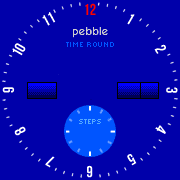
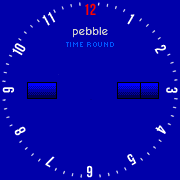
Remove step counter

Changed region(s): [[0.3333, 0.5833, 0.6667, 0.8889]]

diff --git a/src/pkjs/config.js b/src/pkjs/config.js
@@ -15,17 +15,7 @@ module.exports = [
         "messageKey": "SecondTick",
         "label": "Enable Seconds",
         "defaultValue": true
-      },
-      {
-        "type": "slider",
-        "messageKey": "StepType",
-        "defaultValue": 10000,
-        "label": "Slider",
-        "description": "Step Goal (0 for daily average)",
-        "min": 0,
-        "max": 20000,
-        "step": 1000
-      },
+      }
     ]
   },
   {

diff --git a/src/c/main.c b/src/c/main.c
@@ -25,12 +25,9 @@ static GPoint center;
 
 GBitmap *background_bitmap,
         *center_dot_bitmap,
-        *steps_center_dot_bitmap,
         *percentage_bitmap,
         *months_bitmap,
         *digits_bitmap;
-
-static int s_step_count = 0, s_step_goal = 1, s_step_average = 0;
 
 char batt_text[10] = "";
 char date_text[10] = "";
@@ -108,7 +105,6 @@ static void load_settings() {
   settings.BackgroundColor = (GColor){.argb = 0b11000110};//GColorDukeBlue;
   settings.ForegroundColor = GColorWhite;
   settings.SecondTick = false;
-  settings.StepType = 0;
 
   // Read settings from persistent storage, if they exist
   persist_read_data(SETTINGS_KEY, &settings, sizeof(settings));
@@ -121,7 +117,7 @@ static void save_settings() {
 
 // Handle the response from AppMessage
 static void inbox_received_handler(DictionaryIterator *iter, void *context) {
-  Tuple *option_seconds, *option_steptype;
+  Tuple *option_seconds;
   
 // Background Color
 //   if (bg_color_t = dict_find(iter, MESSAGE_KEY_BackgroundColor))
@@ -143,54 +139,12 @@ static void inbox_received_handler(DictionaryIterator *iter, void *context) {
       tick_timer_service_subscribe(MINUTE_UNIT, tick_handler);
   }
 
-  // Step Type
-  if ((option_steptype = dict_find(iter, MESSAGE_KEY_StepType)))
-    settings.StepType = option_steptype->value->int32;
-
   // Save the new settings to persistent storage
   save_settings();
   
   // Update the display with the new settings
   layer_mark_dirty(root_layer);
 }
-
-
-
-// ----------------------------------------------------------------------------------------------------------------------------
-//  Step Tracking
-// ------------------------------------------------------
-// Is step data available?
-
-bool step_data_is_available() {
-  return HealthServiceAccessibilityMaskAvailable &
-    health_service_metric_accessible(HealthMetricStepCount,
-      time_start_of_today(), time(NULL));
-}
-
-// Daily step goal
-static void get_step_goal() {
-  const time_t start = time_start_of_today();
-  const time_t end = start + SECONDS_PER_DAY;
-  s_step_goal = (int)health_service_sum_averaged(HealthMetricStepCount, start, end, HealthServiceTimeScopeDaily);
-  if (s_step_goal == 0) s_step_goal = 1;
-}
-
-// Todays current step count
-static void get_step_count() {
-  s_step_count = (int)health_service_sum_today(HealthMetricStepCount);
-}
-
-static void health_handler(HealthEventType event, void *context) {
-  if(event == HealthEventSignificantUpdate) {
-    get_step_goal();
-  }
-
-  if(event != HealthEventSleepUpdate) {
-    get_step_count();
-  }
-}
-
-
 
 
 // ----------------------------------------------------------------------------------------------------------------------------
@@ -387,34 +341,6 @@ static void root_layer_update(Layer *layer, GContext *ctx) {
   //draw_image(ctx, background_bitmap, 20, 20);
   //draw_image(ctx, background_bitmap, 0, 0);
   
-  
-  
-  
-  
-  
-  // =========
-  // Steps
-  // =========
-  // steps hand
-  int32_t steps_angle = 0;
-  if (settings.StepType == 0) {
-    steps_angle = TRIG_MAX_ANGLE * s_step_count / s_step_goal;
-  } else {
-    steps_angle = TRIG_MAX_ANGLE * s_step_count / settings.StepType;
-  }
-  draw_hand(ctx, steps_angle, 18, 10, (GPoint){.x = 89, .y = 130}, 2, GColorWhite);  // steps hand
-  
-  // steps center dot
-  graphics_context_set_compositing_mode(ctx, GCompOpAssign);
-  graphics_draw_bitmap_in_rect(ctx, steps_center_dot_bitmap, GRect(86, 127, 8, 8));
-  
-  
-  
-  
-  
-  
-  
-  
 
   time_t now = time(NULL);
   struct tm *t = localtime(&now); // Current Watch Time
@@ -508,7 +434,6 @@ static void main_window_load(Window *window) {
 //   background_bitmap = gbitmap_create_with_resource(RESOURCE_ID_BACKGROUND);
 //   background_bitmap = gbitmap_create_with_resource(RESOURCE_ID_BG);
   center_dot_bitmap = gbitmap_create_with_resource(RESOURCE_ID_CENTER_DOT);
-  steps_center_dot_bitmap = gbitmap_create_with_resource(RESOURCE_ID_STEPS_CENTER_DOT);
   months_bitmap = gbitmap_create_with_resource(RESOURCE_ID_MONTHS);
   percentage_bitmap = gbitmap_create_with_resource(RESOURCE_ID_PERCENTAGE);
   digits_bitmap = gbitmap_create_with_resource(RESOURCE_ID_DIGITS);
@@ -609,9 +534,6 @@ Color 15 = 0b11 01 10 11
   
   //if (settings.use_health -- or something)
   // Subscribe to health events if we can
-  if(step_data_is_available()) {
-    health_service_events_subscribe(health_handler, NULL);
-  }
 }
 
 

diff --git a/src/c/main.h b/src/c/main.h
@@ -8,5 +8,4 @@ typedef struct ClaySettings {
   GColor BackgroundColor;
   GColor ForegroundColor;
   bool SecondTick;
-  int StepType;
 } __attribute__((__packed__)) ClaySettings;
